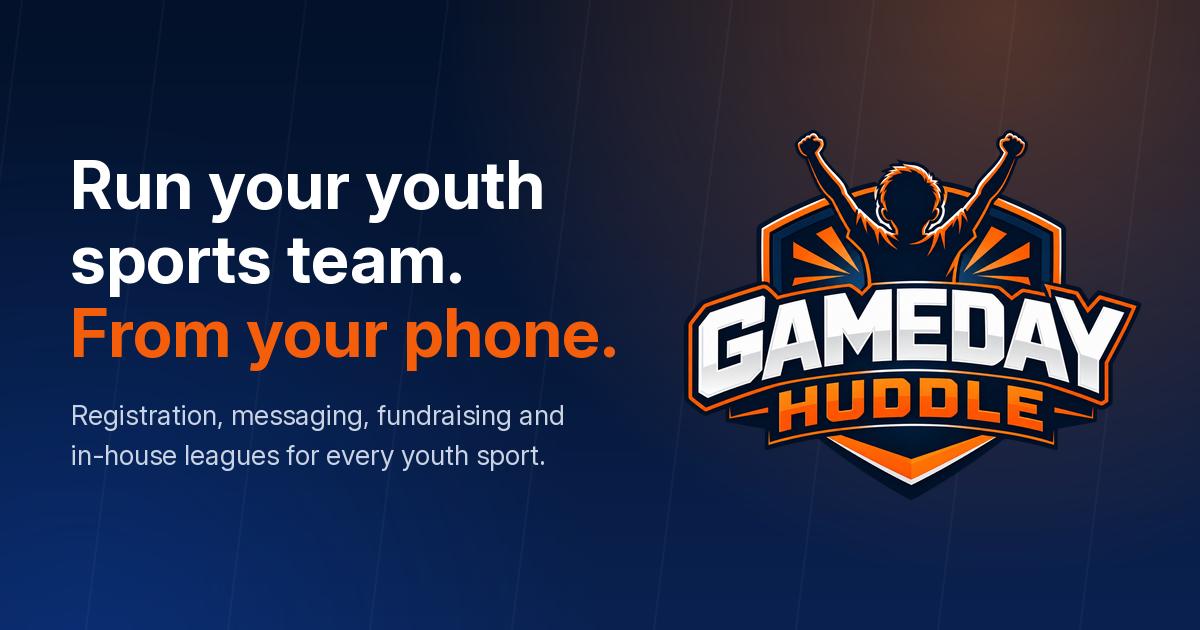
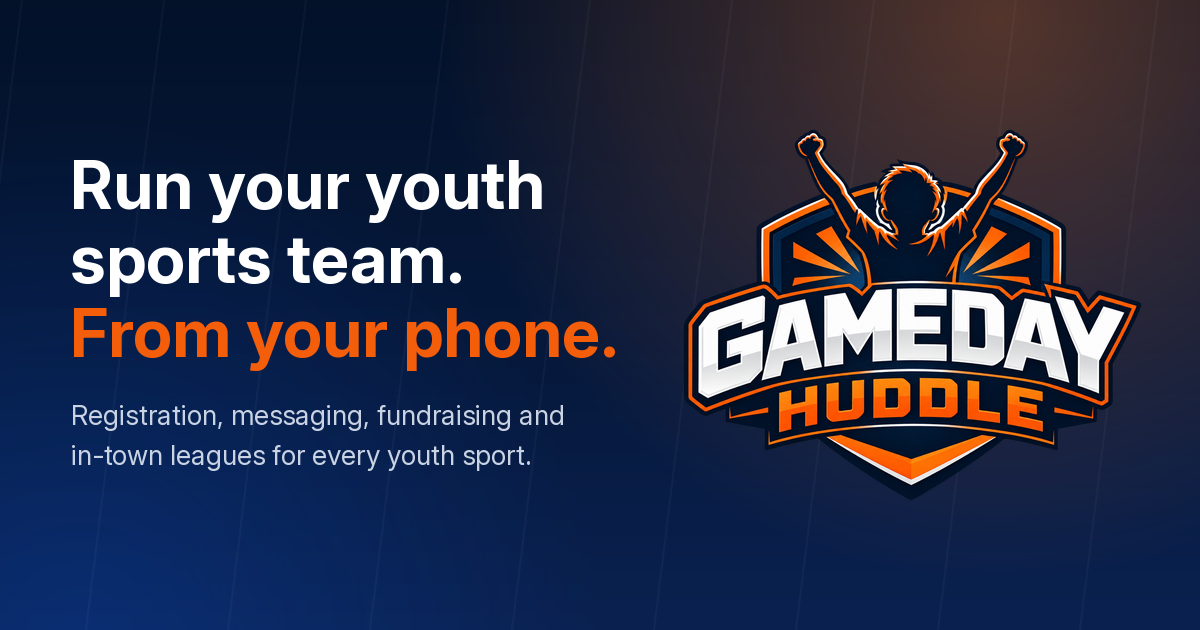
"In-town leagues", never "in-house", on every page, in the menu, the footer, the descriptions and the share image (Doug, 14 Nov 2026: "In-town league should match everywhere")

Changed region(s): [[0.0925, 0.6937, 0.4625, 0.754]]

diff --git a/app/page.tsx b/app/page.tsx
@@ -11,14 +11,14 @@ export const metadata: Metadata = {
   // The layout's template adds " | GameDay Huddle".
   title: "Registration, Messaging & Fundraising for Youth Sports Teams",
   description:
-    "Run your youth sports team from your phone: online registration, team messaging, fundraising and in-house leagues, for any sport. No subscription, no setup fee and no fee on fundraising.",
+    "Run your youth sports team from your phone: online registration, team messaging, fundraising and in-town leagues, for any sport. No subscription, no setup fee and no fee on fundraising.",
 };
 
 const features: { id: string; icon: IconName; title: string; text: string }[] = [
   { id: "registration", icon: "registration", title: "Registration", text: "Build it on your phone and share a link, QR code or flyer. Families register and pay on theirs." },
   { id: "messaging", icon: "messaging", title: "Team Messaging", text: "A group chat for every team, Entire Org Messages, and messages to one child’s parents." },
   { id: "fundraising", icon: "fundraising", title: "Fundraising", text: "Donation drives and item sales, with a page and QR code for every player. No fee from us." },
-  { id: "leagues", icon: "trophy", title: "In-house Leagues", text: "Teams by hand, by auto-balance or by a live draft. Then games, scores and standings." },
+  { id: "leagues", icon: "trophy", title: "In-town Leagues", text: "Teams by hand, by auto-balance or by a live draft. Then games, scores and standings." },
   { id: "club", icon: "club", title: "Running the Team", text: "Staff roles, a setup checklist, season admin and reports, all on the phone." },
 ];
 
@@ -71,7 +71,7 @@ const spotlights = [
   },
   {
     id: "leagues",
-    kicker: "In-house leagues",
+    kicker: "In-town leagues",
     title: "Teams, games and standings in one place",
     text: "Form your teams by hand, by auto-balance or by a live draft on your coaches’ phones. Play games between your own teams, enter the scores, and families see the standings.",
     points: [
@@ -109,7 +109,7 @@ const included = [
   "Team chats and Entire Org Messages",
   "Schedules, RSVPs and calendars",
   "Fundraising, with no fee from us",
-  "In-house leagues, drafts and standings",
+  "In-town leagues, drafts and standings",
   "Season schedules made in one go",
   "Staff roles and a setup checklist",
   "Reports by email",
@@ -124,7 +124,7 @@ export default function Home() {
     applicationCategory: "SportsApplication",
     operatingSystem: "iOS, Android, Web",
     description:
-      "Registration, team messaging, fundraising and in-house leagues for youth sports teams of any sport, run from the phone.",
+      "Registration, team messaging, fundraising and in-town leagues for youth sports teams of any sport, run from the phone.",
   };
 
   return (
@@ -138,7 +138,7 @@ export default function Home() {
             </h1>
             <div className="hero-copy">
               <p className="hero-deck">
-                Registration, team messaging, fundraising and in-house leagues for any youth sport. One app for
+                Registration, team messaging, fundraising and in-town leagues for any youth sport. One app for
                 families, coaches and staff.
               </p>
               <div className="hero-actions">

diff --git a/app/layout.tsx b/app/layout.tsx
@@ -12,7 +12,7 @@ export const viewport: Viewport = {
 };
 
 const description =
-  "Registration, team messaging, fundraising and in-house leagues for youth sports teams — any sport, run from your phone.";
+  "Registration, team messaging, fundraising and in-town leagues for youth sports teams — any sport, run from your phone.";
 
 export async function generateMetadata(): Promise<Metadata> {
   const requestHeaders = await headers();
@@ -24,7 +24,7 @@ export async function generateMetadata(): Promise<Metadata> {
     title: { default: "GameDay Huddle", template: "%s | GameDay Huddle" },
     description,
     applicationName: "GameDay Huddle",
-    keywords: ["youth sports registration", "youth sports app", "team registration", "team messaging", "youth sports fundraising", "in-house league", "league standings"],
+    keywords: ["youth sports registration", "youth sports app", "team registration", "team messaging", "youth sports fundraising", "in-town league", "league standings"],
     icons: {
       icon: [{ url: "/icon.png", type: "image/png", sizes: "256x256" }],
       apple: "/apple-icon.png",

diff --git a/app/components/HeroDevices.tsx b/app/components/HeroDevices.tsx
@@ -22,7 +22,7 @@ const stats = [
   { label: "Fundraising", value: "70%", note: "Spring drive goal", tone: "orange", icon: "fundraising" },
 ] as const;
 
-// In-house league games: the club's own teams, playing each other.
+// In-town league games: the team's own teams, playing each other.
 const games = [
   { month: "APR", day: "12", team: "Comets v Rockets", group: "10U", time: "9:00 AM · Field 2", sport: "Soccer" },
   { month: "APR", day: "12", team: "Hawks v Owls", group: "12U", time: "11:00 AM · Diamond 1", sport: "Baseball" },

diff --git a/app/components/MarketingFooter.tsx b/app/components/MarketingFooter.tsx
@@ -7,7 +7,7 @@ export function MarketingFooter() {
       <div className="footer-grid section-shell">
         <div className="footer-intro">
           <Brand />
-          <p>Registration, messaging, fundraising and in-house leagues for youth sports teams.</p>
+          <p>Registration, messaging, fundraising and in-town leagues for youth sports teams.</p>
         </div>
         <div>
           <h3>Platform</h3>

diff --git a/app/components/FeatureMocks.tsx b/app/components/FeatureMocks.tsx
@@ -89,7 +89,7 @@ const standings = [
 
 export function LeagueMock() {
   return (
-    <Mock label="An in-house league's standings and its next game" title="10U · Standings">
+    <Mock label="An in-town league's standings and its next game" title="10U · Standings">
       <div className="mock-standing mock-standing-head">
         <span />
         <b>Team</b>

diff --git a/app/components/Icon.tsx b/app/components/Icon.tsx
@@ -15,7 +15,7 @@ const paths = {
       <path d="M15 9.2c-.6-1-1.7-1.5-3-1.5-1.7 0-3 .9-3 2.2s1.3 1.8 3 2.1 3 .9 3 2.2-1.3 2.2-3 2.2c-1.4 0-2.5-.6-3.1-1.6M12 6v1.7M12 16.4V18" />
     </>
   ),
-  // In-house leagues and standings.
+  // In-town leagues and standings.
   trophy: (
     <>
       <path d="M7.5 4h9v5.5a4.5 4.5 0 0 1-9 0z" />

diff --git a/app/components/links.ts b/app/components/links.ts
@@ -23,7 +23,7 @@ export const platformLinks = [
   ["Online registration", "/#registration"],
   ["Team messaging", "/#messaging"],
   ["Fundraising", "/#fundraising"],
-  ["In-house leagues", "/#leagues"],
+  ["In-town leagues", "/#leagues"],
   ["Running the team", "/#club"],
   ["Every youth sport", "/#sports"],
 ] as const;
